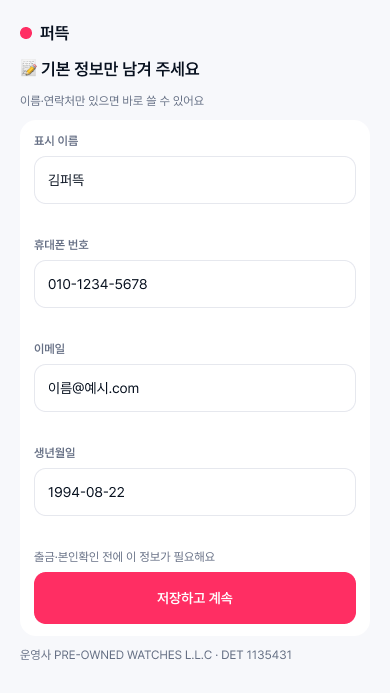
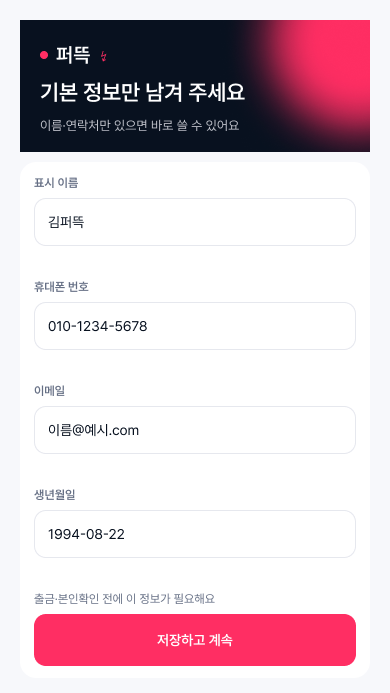
Refresh Auth Figma Founder-review candidate to Spark Dash V2.
Keep production Auth unapplied and node IDs in place so review judges the actual navy/fuchsia render, not generic split screens.

diff --git a/governance/figma/evidence/auth-founder-review-candidate/README.md b/governance/figma/evidence/auth-founder-review-candidate/README.md
@@ -1,13 +1,18 @@
-# Auth Figma Founder Review Candidate — screenshots
+# Auth Figma Founder Review Candidate V2 — screenshots
 
 ```text
 CLASSIFICATION = FOUNDER_REVIEW_CANDIDATE
+REVISION = V2
 FOUNDER_APPROVED = NO
 LOCKED = NO
+VISUAL_REVIEW = PENDING_FOUNDER_REVIEW
+PRODUCTION_AUTH_APPLY = 0
+REL_207_STARTED = NO
+PR_30_MERGE = HOLD
 DESIGN_FIXTURE_ONLY
 ```
 
-Recaptured from fileKey `w7Yg8j2x9evuheOSSLqFw5` on 2026-08-22 after 48px touch-target polish.
+Recaptured from fileKey `w7Yg8j2x9evuheOSSLqFw5` on 2026-08-22 after Spark Dash visual refinement. Previous V1 screenshots were replaced; node IDs were kept in place.
 
 | file | node |
 |---|---|
@@ -20,3 +25,24 @@ Recaptured from fileKey `w7Yg8j2x9evuheOSSLqFw5` on 2026-08-22 after 48px touch-
 | onboarding-desktop.png | 201:635 |
 | onboarding-mobile.png | 201:672 |
 | auth-flow.png | 201:696 |
+
+## Candidate visual copy (production copy unchanged)
+
+`packages/ui/copy/ko/auth.ts` / `onboarding.ts` still contain OS emoji headlines. This candidate does **not** edit production copy.
+
+| surface | production SSOT | candidate visual headline |
+|---|---|---|
+| Login | `👋 다시 오신 걸 환영해요` | 다시 오신 걸 환영해요 |
+| Signup | `✨ 퍼뜩 시작하기` | 퍼뜩 시작하기 |
+| Complete Profile | `📝 기본 정보만 남겨 주세요` | 기본 정보만 남겨 주세요 |
+| Onboarding identity | `✨ 글로벌 시세·가격을 비교해 보여 드려요` | 글로벌 시세·가격을 비교해 보여 드려요 |
+
+Emphasis uses 퍼뜩 Spark glyph `↯`, not OS emoji.
+
+## Founder visual decisions locked for V2
+
+- Desktop = left Spark Dash brand pane / right Auth task pane
+- Kakao disabled = muted neutral gray
+- Email = tertiary text inside a 48px hit target
+- Mobile Signup invite code = optional disclosure (`초대 코드가 있나요?`) + optional field
+- Focus = `color/border/focus` → pink/500 + 2px weight

diff --git a/governance/figma/PUTDUK_DESIGN_SYSTEM_CODE_BRIDGE.md b/governance/figma/PUTDUK_DESIGN_SYSTEM_CODE_BRIDGE.md
@@ -5,6 +5,8 @@ Lightweight mapping. Not presentation authority. Not REL-207.
 ```text
 FILE = w7Yg8j2x9evuheOSSLqFw5
 CLASSIFICATION = FOUNDER_REVIEW_CANDIDATE for Auth frames
+REVISION = V2
+VISUAL_REVIEW = PENDING_FOUNDER_REVIEW
 CODE_CONNECT = CANDIDATE_ONLY
 APPLIED = 0
 PRODUCTION_AUTH_VISUAL_APPLY = 0
@@ -21,7 +23,7 @@ Machine table: `PUTDUK_DESIGN_SYSTEM_CODE_BRIDGE.json`
 |---|---|---|---|
 | Figma `color/bg/*` `color/text/*` `color/action/*` `color/status/*` `spacing/*` `radius/*` | ACTIVE_SEMANTIC_TOKEN | PUTDUK / Semantic · Dimensions | Auth Figma binds these |
 | Figma primitives `ink/*` `paper/*` `pink/500` | ACTIVE_SEMANTIC_TOKEN | PUTDUK / Primitives | Alias source only |
-| `color/border/focus` `color/border/error` `color/action/disabled` `color/status/error` | ACTIVE_SEMANTIC_TOKEN | Semantic aliases added 2026-08-22 | Minimal Auth a11y aliases |
+| `color/border/focus` `color/border/error` `color/action/disabled` `color/status/error` | ACTIVE_SEMANTIC_TOKEN | Semantic aliases added 2026-08-22 | V2: focus alias → pink/500 + 2px weight. error/disabled unchanged |
 | `luxFintech.color.*` | RUNTIME_COMPAT_TOKEN | `packages/ui/tokens/lux-fintech.ts` | Production Auth still uses lux-* classes. Not deleted |
 | `luxFintech.layout.sidebar/hero*` | HISTORICAL_VISUAL_GEOMETRY | same file | ADR-017 geometry. Not used as Auth visual authority |
 | Home `--sd-*` / `--sdm-*` | LOCKED Home local | spark-dash-home CSS | Do not import into Auth |
